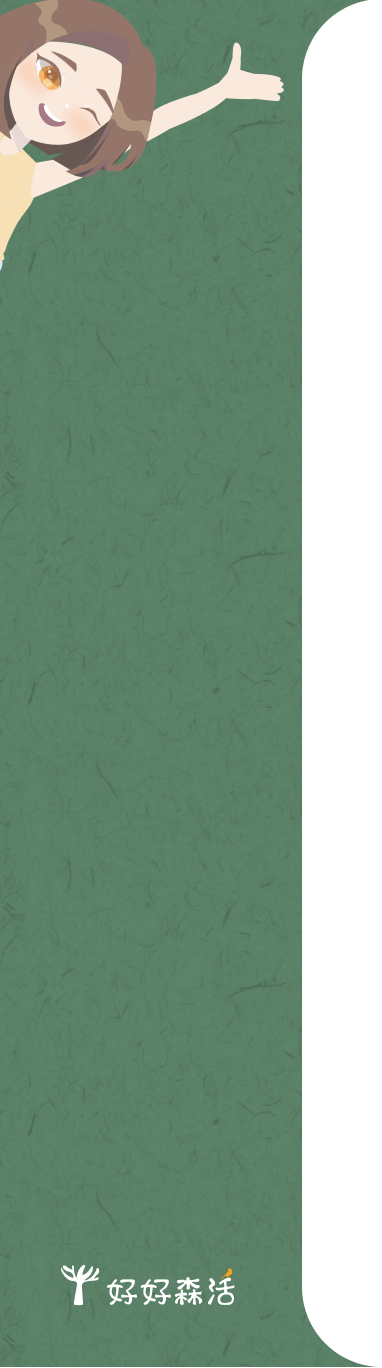
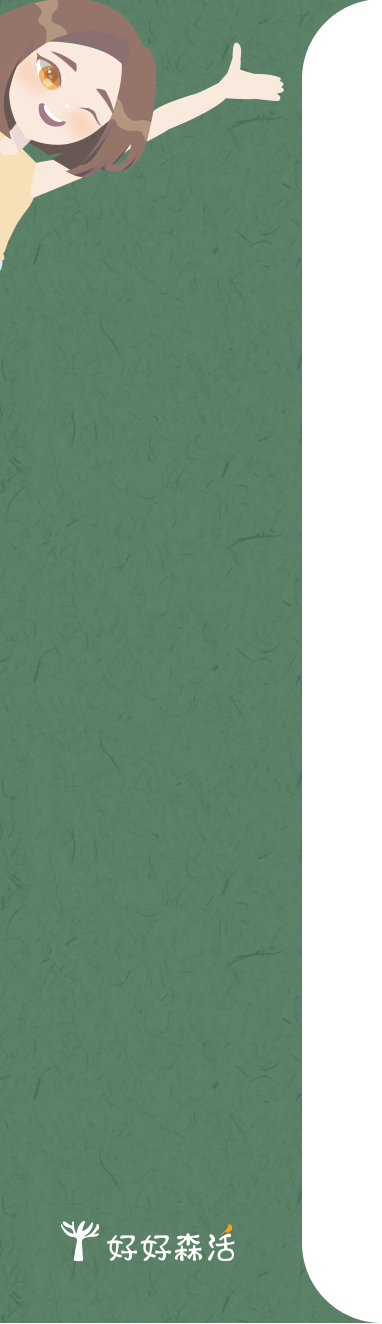
27

diff --git a/index.html b/index.html
@@ -1,5 +1,6 @@
 <!DOCTYPE html>
 <html lang="en">
+
 <head>
     <meta charset="UTF-8">
     <meta http-equiv="X-UA-Compatible" content="IE=edge">
@@ -7,22 +8,66 @@
     <link rel="stylesheet" href="./css/index.css">
     <title>好好森活</title>
 </head>
+
 <body>
     <nav class="sticky-top">
-
-
-
+        <h1 class="name">Hei,<br>
+            Yvonne</h1>
+        <a href="./weather.html" class="weather">
+            <img src="./img/weather.svg" alt="" height="80px">
+            <p class="weathertext">17</p>
+            <p class="weatherC">°C</p>
+        </a>
+        <ul class=" menu navbar-nav ml-auto mt-2 mt-lg-0">
+            <li class="li"><a href="./ch.html"><img src="./img/forest.svg" alt="" width="44px"> </a>
+            </li>
+            <li class="li"><a href="./badge.html"><img src="./img/badge.svg" alt="" width="44px"></a></li>
+            <li class="li"><a href="./mood.html"><img src="./img/mood.svg" alt="" width="44px"></a></li>
+            <li class="li"><a href="./record.html"><img src="./img/record.svg" alt="" width="44px"></a></li>
+            <li class="li"><a href="./compass.html"><img src="./img/compass.svg" alt="" width="44px"></a></li>
+            <li class="li"><a href="./VR360.html"><img src="./img/VR360.svg" alt="" width="44px"></a></li>
+            <li class="li"><a href="./community.html"><img src="./img/community.svg" alt="" width="44px"></a></li>
+            <li class="li"><a href="./set_up.html"><img src="./img/set up.svg" alt="" width="44px"></a></li>
+        </ul>
     </nav>
 
     <div class="all">
-<div class="box1"></div>
+        <div class="box1">
+            <h2>阿里山</h2>
+            <h3>賞鳥季五感體驗</h3>
+            <p class="p12">2023年3月~2023年5月</p>
+        </div>
 
-<div class="box2"></div>
+        <div class="box2">
+            <h1>屏東 · 雙溪</h1>
+            <div class="flex">
+                <p><img src="./img/phytoncine.svg" alt="" class="icon" width="16px"> 12880 ppd</p>
+                <p><img src="./img/negative ions.svg" alt="" class="icon" width="16px"> 13640 ions/cm³</p>
+                <p><img src="./img/weather-1.svg" alt="" class="icon" width="16px"> 11 °C</p>
+            </div>
+        </div>
 
-<div class="box3"></div>
+        <div class="box3">
+            <p><img src="./img/Mountain.svg" alt="" class="icon" width="16px"> 南投溪頭 - 沿溪步道</p>
+            <p><img src="./img/mins_w.svg" alt="" class="icon" width="16px"> 090 <span> mins </span>
+                <img src="./img/km_w.svg" alt="" class="icon" width="16px"> 4.30 <span> KM </span>
+            </p>
+        </div>
 
-<div class="box4"></div>
-<div class="box5"></div>
+        <div class="box4">
+            <p>- 療癒紀錄 2022 . 07 . 15 -</p>
+            <p><img src="./img/Mountain.svg" alt="" class="icon" width="16px"> 台中八仙山
+                <img src="./img/steps_w.svg" alt="" class="icon" width="16px"> 09018.131 <span> steps</span>
+                <img src="./img/GPS.svg" alt="" class="icon" width="16px"> 11.4 <span> KM</span>
+            </p>
+        </div>
+
+        <div class="box5">
+            <h2>走進森林</h2>
+            <p>待在森林3天<br>能夠健康1個月</p>
+        </div>
     </div>
+
 </body>
+
 </html>

diff --git a/css/index.css b/css/index.css
@@ -22,74 +22,77 @@ a {
 
 h1 {
     color: #ffffff;
-    font-size: 80px;
+    font-size: 50px;
     font-weight: bold;
 }
 
 h2 {
     color: #ffffff;
-    font-size: 68px;
+    font-size: 40px;
     font-weight: bold;
 }
 
 h3 {
-    font-size: 44px;
-}
-
-p {
-    font-size: 42px;
-    font-weight: normal;
-    color: rgb(255, 255, 255);
-}
-
-span {
     font-size: 30px;
+    color: #ffffff;
 }
 
 .p12 {
-    font-size: 30px;
+    font-size: 20px;
+    font-weight: normal;
     color: #CCCDD2;
+}
+
+p {
+    font-size: 16px;
+    font-weight: normal;
+    color: #ffffff;
+}
+
+span {
+    font-size: 12px;
+    color: rgb(255, 255, 255);
 }
 
 nav {
     background-image: url(../img/ipad_nav.png);
     width: 382px;
-    height: 1368px;
+    height: 1324px;
     position: absolute;
     position: fixed;
     z-index: 100;
+    padding-left: 37px;
+    padding-top: 368px;
 }
 
 .weather {
     display: flex;
-    width: 78px;
-    height: 56px;
-    line-height: 3px;
     text-decoration: none;
     color: rgb(255, 255, 255);
-    position: absolute;
-    left: 70px;
+    margin-bottom: 44px;
 }
 
 .weathertext {
-    margin-left: 4px;
+    margin-left: 20px;
     font-size: 50px;
-    line-height: 70px;
-    margin-top: 0;
+    line-height: 80px;
 }
 
 .weatherC {
-    margin-left: 0;
-    margin-top: 0;
+    margin-left: 10px;
     font-size: 40px;
-    line-height: 70px;
+    line-height: 80px;
 }
 
 .name {
+    text-align: center;
     position: absolute;
-    right: 30px;
-    left: 70px;
-    top: 35px;
+    left: 65px;
+    top: 250px;
+}
+
+li {
+    margin-bottom: 40px;
 }
 
 .icon {
@@ -106,7 +109,8 @@ nav {
     background-image: url(../img/ipad_box1.png);
     width: 723px;
     height: 384px;
-    padding-left: 70px;
+    padding-left: 50px;
+    padding-top: 154px;
     margin-bottom: -160px;
 }
 
@@ -115,6 +119,7 @@ nav {
     width: 723px;
     height: 464px;
     text-align: center;
+    padding-top: 200px;
     margin-bottom: -160px;
 }
 
@@ -122,7 +127,6 @@ nav {
     margin-top: 10px;
     display: flex;
     width: 100%;
-    line-height: 20px;
     text-align: center;
     justify-content: center;
     gap: 10px;
@@ -133,15 +137,17 @@ nav {
     background-image: url(../img/ipad_box3.png);
     width: 723px;
     height: 464px;
+    padding-left: 50px;
+    padding-top: 300px;
     margin-bottom: -160px;
 }
 
 .box4 {
     background-image: url(../img/ipad_box4.png);
     width: 723px;
-    height: 534px;
+    height: 490px;
     text-align: center;
-    padding-top: 389px;
+    padding-top: 200px;
     margin-bottom: -325.34px;
 }
 
@@ -151,6 +157,8 @@ nav {
     height: 325.34px;
     text-align: end;
     z-index: 10;
+    padding-top: 187px;
+    padding-right: 50px;
     margin-bottom: 0;
 }
 
